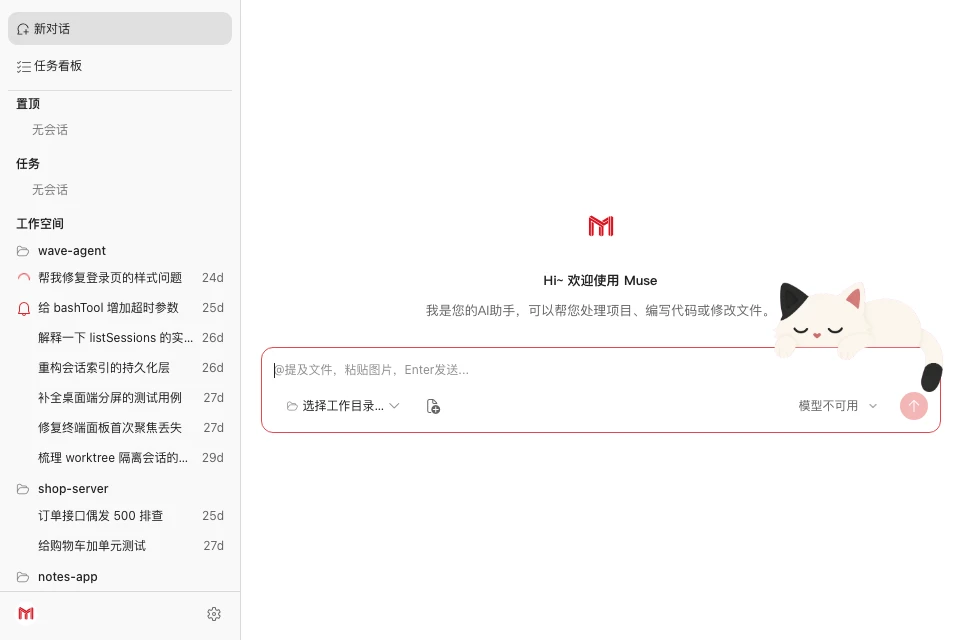
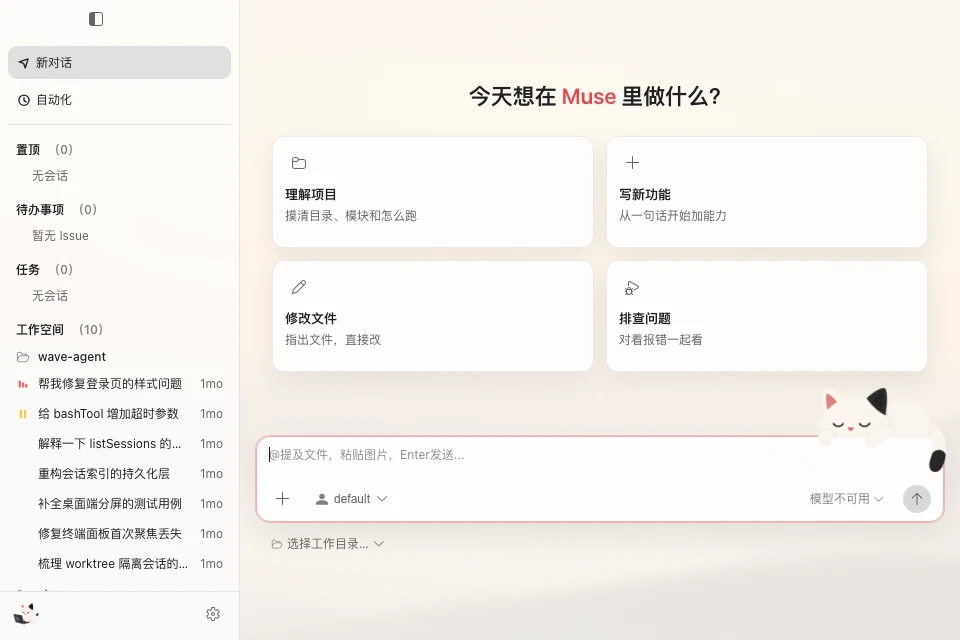
feat(desktop): 用电脑前的小猫替换红 M 作为应用图标
Dock 用炭黑底板，侧栏和加载动画用透明底，与新会话页的猫咪角色对齐。

diff --git a/packages/webview/src/styles/DesktopApp.css b/packages/webview/src/styles/DesktopApp.css
@@ -68,7 +68,7 @@
   inset: 0;
   z-index: 0;
   pointer-events: none;
-  background: color-mix(in srgb, var(--gray-2) 38%, transparent);
+  background: color-mix(in srgb, var(--gray-2) 72%, transparent);
 }
 
 .desktop-sidebar
@@ -83,7 +83,7 @@
 }
 
 :root[data-theme="light"] .desktop-sidebar::before {
-  background: color-mix(in srgb, var(--gray-1) 42%, transparent);
+  background: color-mix(in srgb, var(--gray-1) 78%, transparent);
 }
 
 @media (prefers-reduced-transparency: reduce) {
@@ -123,7 +123,7 @@
   justify-content: space-between;
   padding: var(--space-2) var(--space-3) var(--space-3);
   border-top: 1px solid color-mix(in srgb, var(--gray-6) 70%, transparent);
-  background: color-mix(in srgb, var(--gray-2) 35%, transparent);
+  background: color-mix(in srgb, var(--gray-2) 70%, transparent);
   position: relative;
   flex-shrink: 0;
 }
@@ -137,8 +137,8 @@
 }
 
 .desktop-sidebar-logo {
-  width: 24px;
-  height: 24px;
+  width: 28px;
+  height: 28px;
   object-fit: contain;
   display: block;
 }
@@ -696,7 +696,7 @@
 }
 
 .issue-sidebar-section-empty {
-  color: var(--gray-9);
+  color: var(--gray-11);
 }
 
 .issue-sidebar-empty {
@@ -1008,7 +1008,7 @@
   /* Align roughly with session titles (status/icon column + gap). */
   padding: var(--space-1) var(--space-2) var(--space-1) var(--space-5);
   font-size: var(--font-size-1);
-  opacity: 0.6;
+  color: var(--gray-11);
 }
 
 /* ---- Worktree controls: branch selector + checkbox (FR-022/FR-023) ----

diff --git a/packages/webview/e2e/demo/desktop-app.demo.ts b/packages/webview/e2e/demo/desktop-app.demo.ts
@@ -1,7 +1,7 @@
 import { test, expect } from "../utils/desktopTestHarness.js";
 import { MessageInjector } from "../utils/messageInjector.js";
 import { MockDataGenerator } from "../fixtures/mockData.js";
-import { screenshotWebp } from "../utils/screenshot.js";
+import { screenshotWebp, elementScreenshotWebp } from "../utils/screenshot.js";
 import { mockMuseSettingsApis } from "../utils/museApiMock.js";
 
 const DIR_A = "/Users/dev/projects/wave-agent";
@@ -164,6 +164,11 @@ test.describe("Desktop App Screenshots", () => {
     // setInitialState was dispatched before ChatApp's listener attached.
     await expect(webviewPage.locator(".loading-logo")).toHaveCount(0);
     await expect(webviewPage.getByTestId("welcome-headline")).toBeVisible();
+    await expect(webviewPage.getByTestId("desktop-brand")).toBeVisible();
+    await elementScreenshotWebp(
+      webviewPage.getByTestId("desktop-sidebar-footer"),
+      "../../docs/public/screenshots/desktop-sidebar-brand.webp",
+    );
     await screenshotWebp(
       webviewPage,
       "../../docs/public/screenshots/desktop-first-launch.webp",

diff --git a/packages/webview/src/components/chat/LoadingLogo.tsx b/packages/webview/src/components/chat/LoadingLogo.tsx
@@ -1,11 +1,11 @@
 /**
- * LoadingLogo - Muse M mark with a light-sweep animation shown while the
+ * LoadingLogo - Muse cat mark with a light-sweep animation shown while the
  * initial state (auth, sessions) is being loaded.
  */
 
 import React from "react";
 import "../../styles/LoadingLogo.css";
-import museM from "../../assets/muse-m.svg";
+import museM from "../../assets/muse-m.png";
 
 const MMark: React.FC<{ size: number }> = ({ size }) => (
   <img

diff --git a/packages/webview/src/components/desktop/DesktopSidebar.tsx b/packages/webview/src/components/desktop/DesktopSidebar.tsx
@@ -1,7 +1,7 @@
 import React from "react";
 import { Tooltip } from "../shared/Tooltip";
 import { NewSessionIcon, AutomationsIcon } from "../shared/HeaderIcons";
-import museM from "../../assets/muse-m.svg";
+import museM from "../../assets/muse-m.png";
 import {
   SessionTree,
   SESSION_DRAG_MIME,

diff --git a/packages/webview/src/styles/LoadingLogo.css b/packages/webview/src/styles/LoadingLogo.css
@@ -1,5 +1,5 @@
 /* Loading logo with light-sweep animation.
-   Two stacked copies of the Muse M mark; the top copy has a
+   Two stacked copies of the Muse cat mark; the top copy has a
    clip-path light band that sweeps across, using brightness + screen blend. */
 
 .loading-logo-container {
